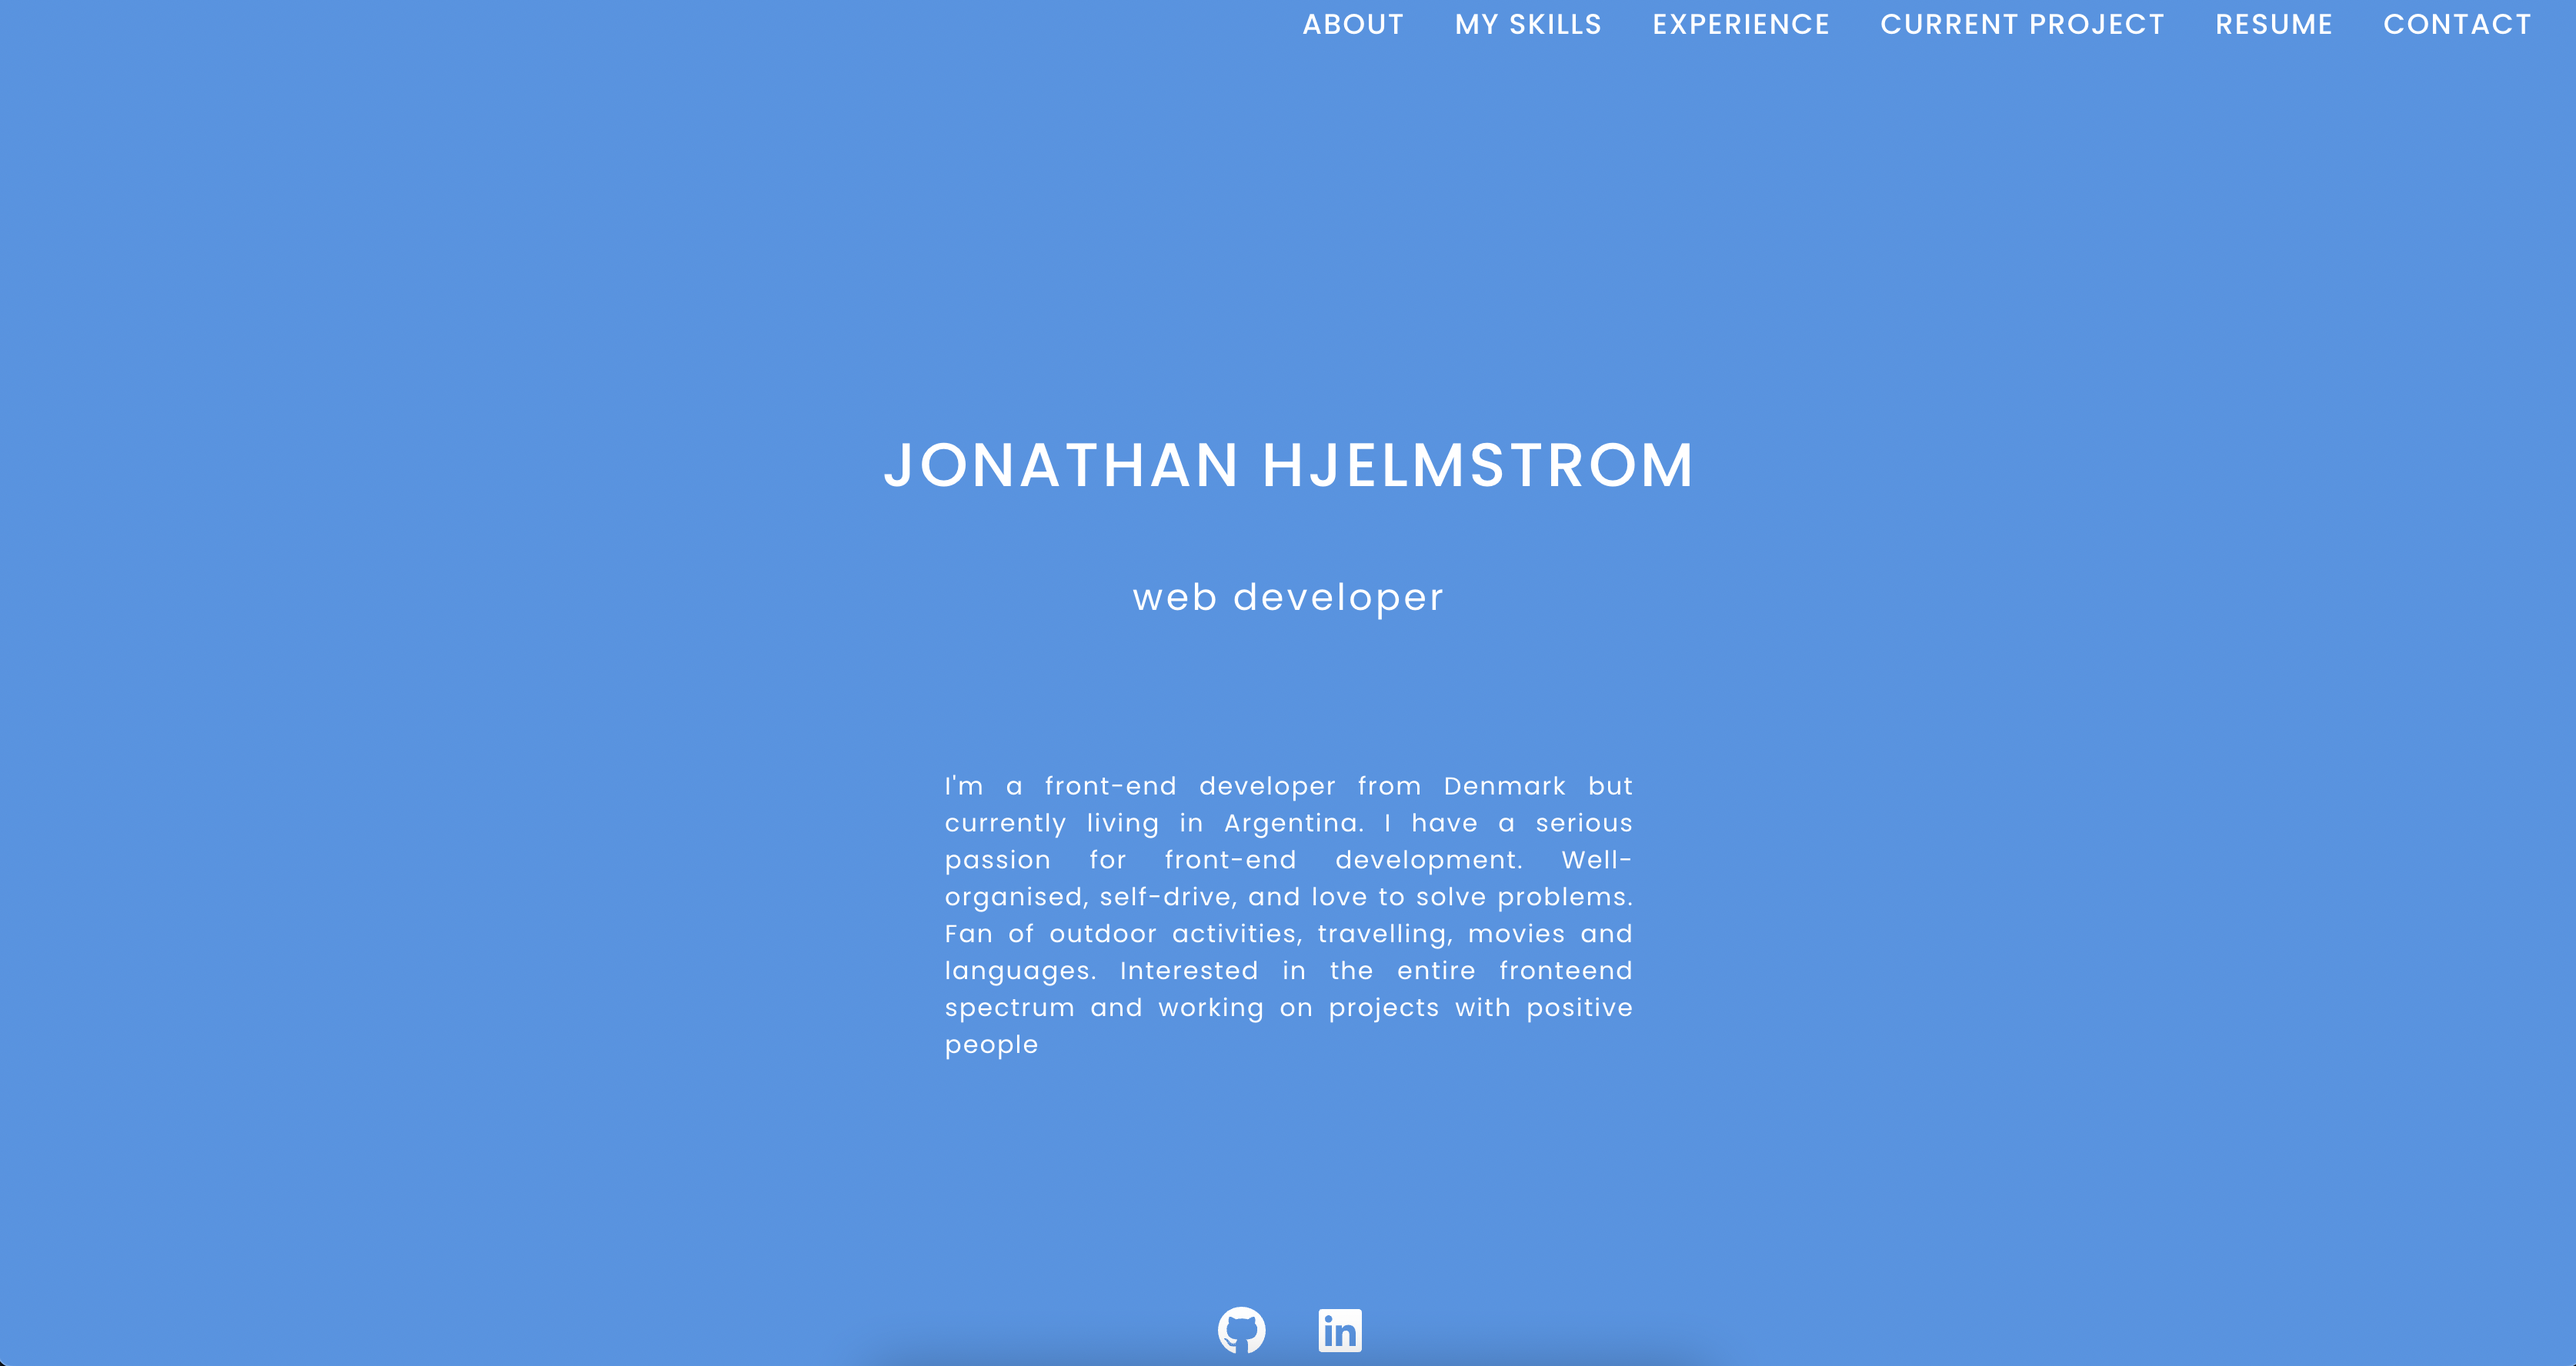
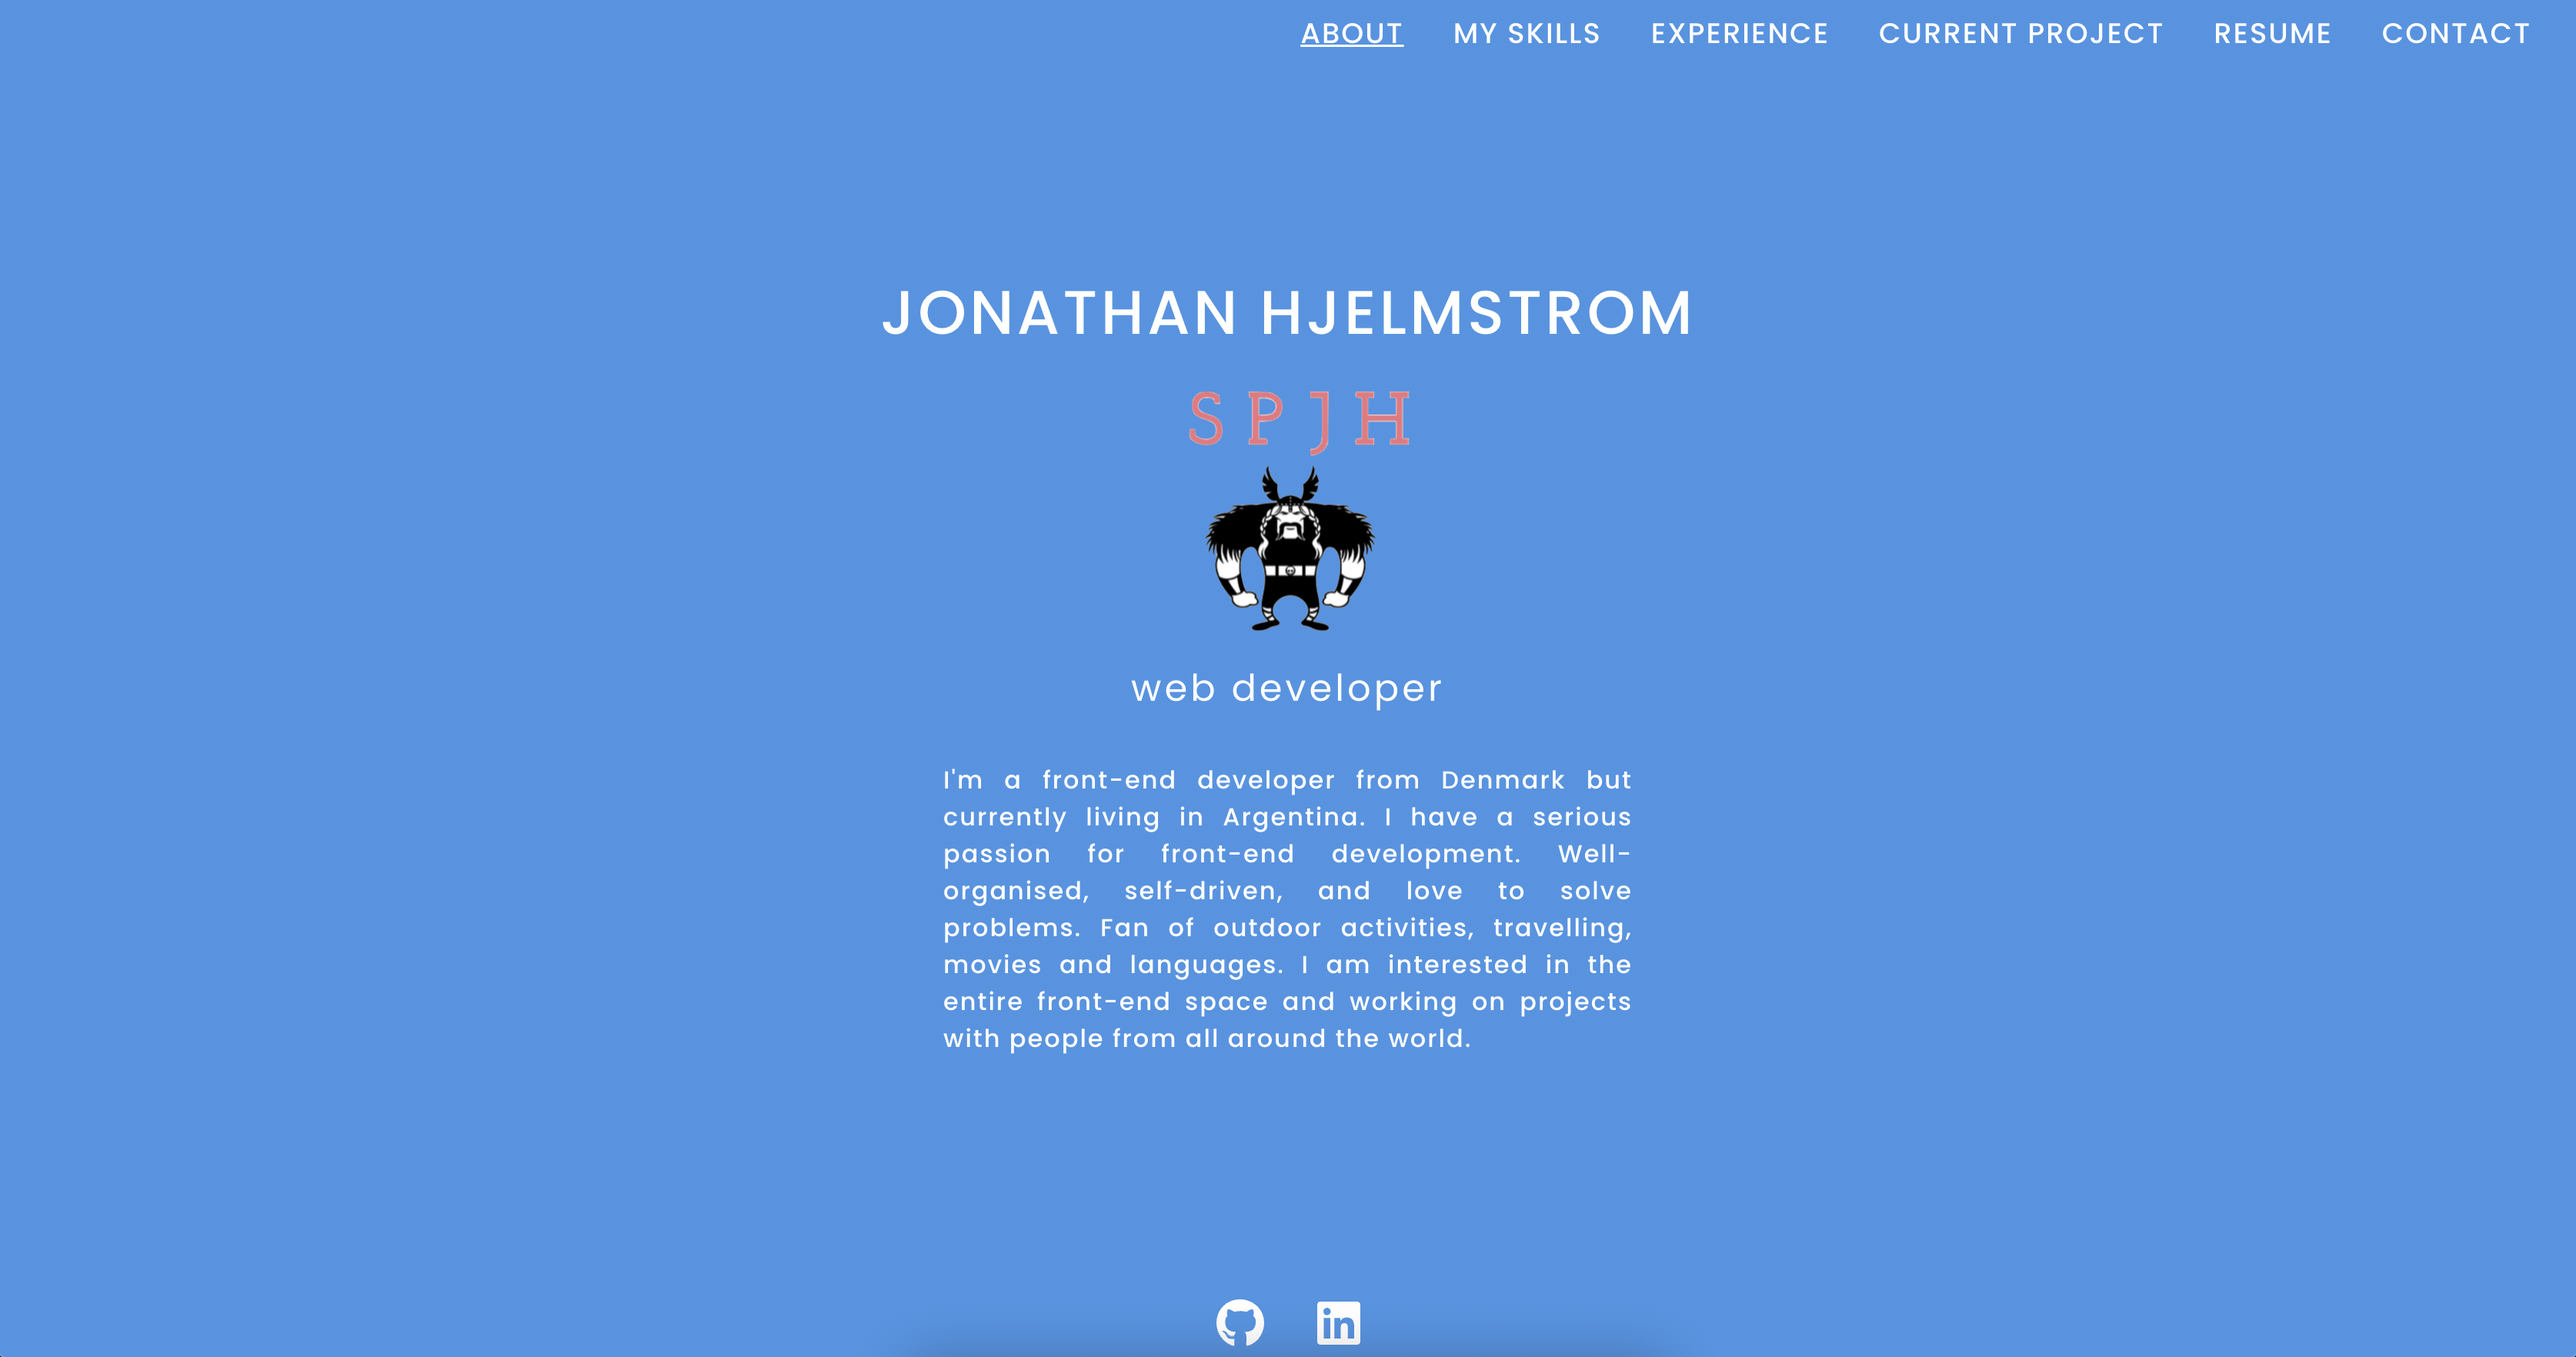
ready to buil

diff --git a/public/index.html b/public/index.html
@@ -2,14 +2,14 @@
 <html lang="en">
   <head>
     <meta charset="utf-8" />
-    <link rel="icon" href="%PUBLIC_URL%/favicon.ico" />
+    <link rel="shortcut icon" href="/logo512.png" />
     <meta name="viewport" content="width=device-width, initial-scale=1" />
     <meta name="theme-color" content="#000000" />
     <meta
       name="Jonathan Hjelmstrom's Portoflio"
-      content=""
+      content="A portfolio website for Jonathan Hjelmstrom"
     />
-    <link rel="apple-touch-icon" href="%PUBLIC_URL%/logo192.png" />
+    <link rel="apple-touch-icon" href="/logo512.png" />
     <!--
       manifest.json provides metadata used when your web app is installed on a
       user's mobile device or desktop. See https://developers.google.com/web/fundamentals/web-app-manifest/

diff --git a/src/components/body/about/About.js b/src/components/body/about/About.js
@@ -2,7 +2,6 @@ import classes from "./About.module.css";
 import AboutHeader from "./aboutComponents/AboutHeader";
 import AboutBody from "./aboutComponents/AboutBody";
 import { useEffect, useRef, useState } from "react";
-import image from '../../images/about-background.png'
 
 function About(props) {
   const myRef = useRef();
@@ -21,9 +20,7 @@ function About(props) {
   return (
     <div className={classes.about}  >
       <div className={classes.marker} ref={myRef}></div>
-       <div className={classes.backgroundPhoto}>
-         <img src={image} alt=""/>
-       </div>
+  
       <AboutHeader />
       <AboutBody />
     </div>

diff --git a/src/components/body/about/aboutComponents/AboutHeader.module.css b/src/components/body/about/aboutComponents/AboutHeader.module.css
@@ -3,11 +3,14 @@
     width: 100%;
     display: flex;
     flex-direction: column;
-    justify-content: center;
+    justify-content: flex-start;
     align-items: center;
-
+    gap: 1rem;
     position: relative;
     z-index: 1;
+}
+.aboutHeader img {
+    max-width: 15rem;
 }
 .aboutHeader h1{
     text-align: center;
@@ -29,7 +32,7 @@
     letter-spacing: 2px;
     color: white;
 
-    margin-block-start: 2em;
+    margin-block-start: 0em;
     margin-block-end: 0em;
     margin-inline-start: 0px;
     margin-inline-end: 0px;

diff --git a/src/components/body/about/aboutComponents/AboutHeader.js b/src/components/body/about/aboutComponents/AboutHeader.js
@@ -1,9 +1,10 @@
 import classes from "./AboutHeader.module.css";
-
+import logo from '../../../images/logo3.png'
 function AboutHeader() {
   return (
     <div className={classes.aboutHeader}>
       <h1>Jonathan Hjelmstrom</h1>
+      <img src={logo} alt=""/>
       <h4>web developer</h4>
     </div>
   );
